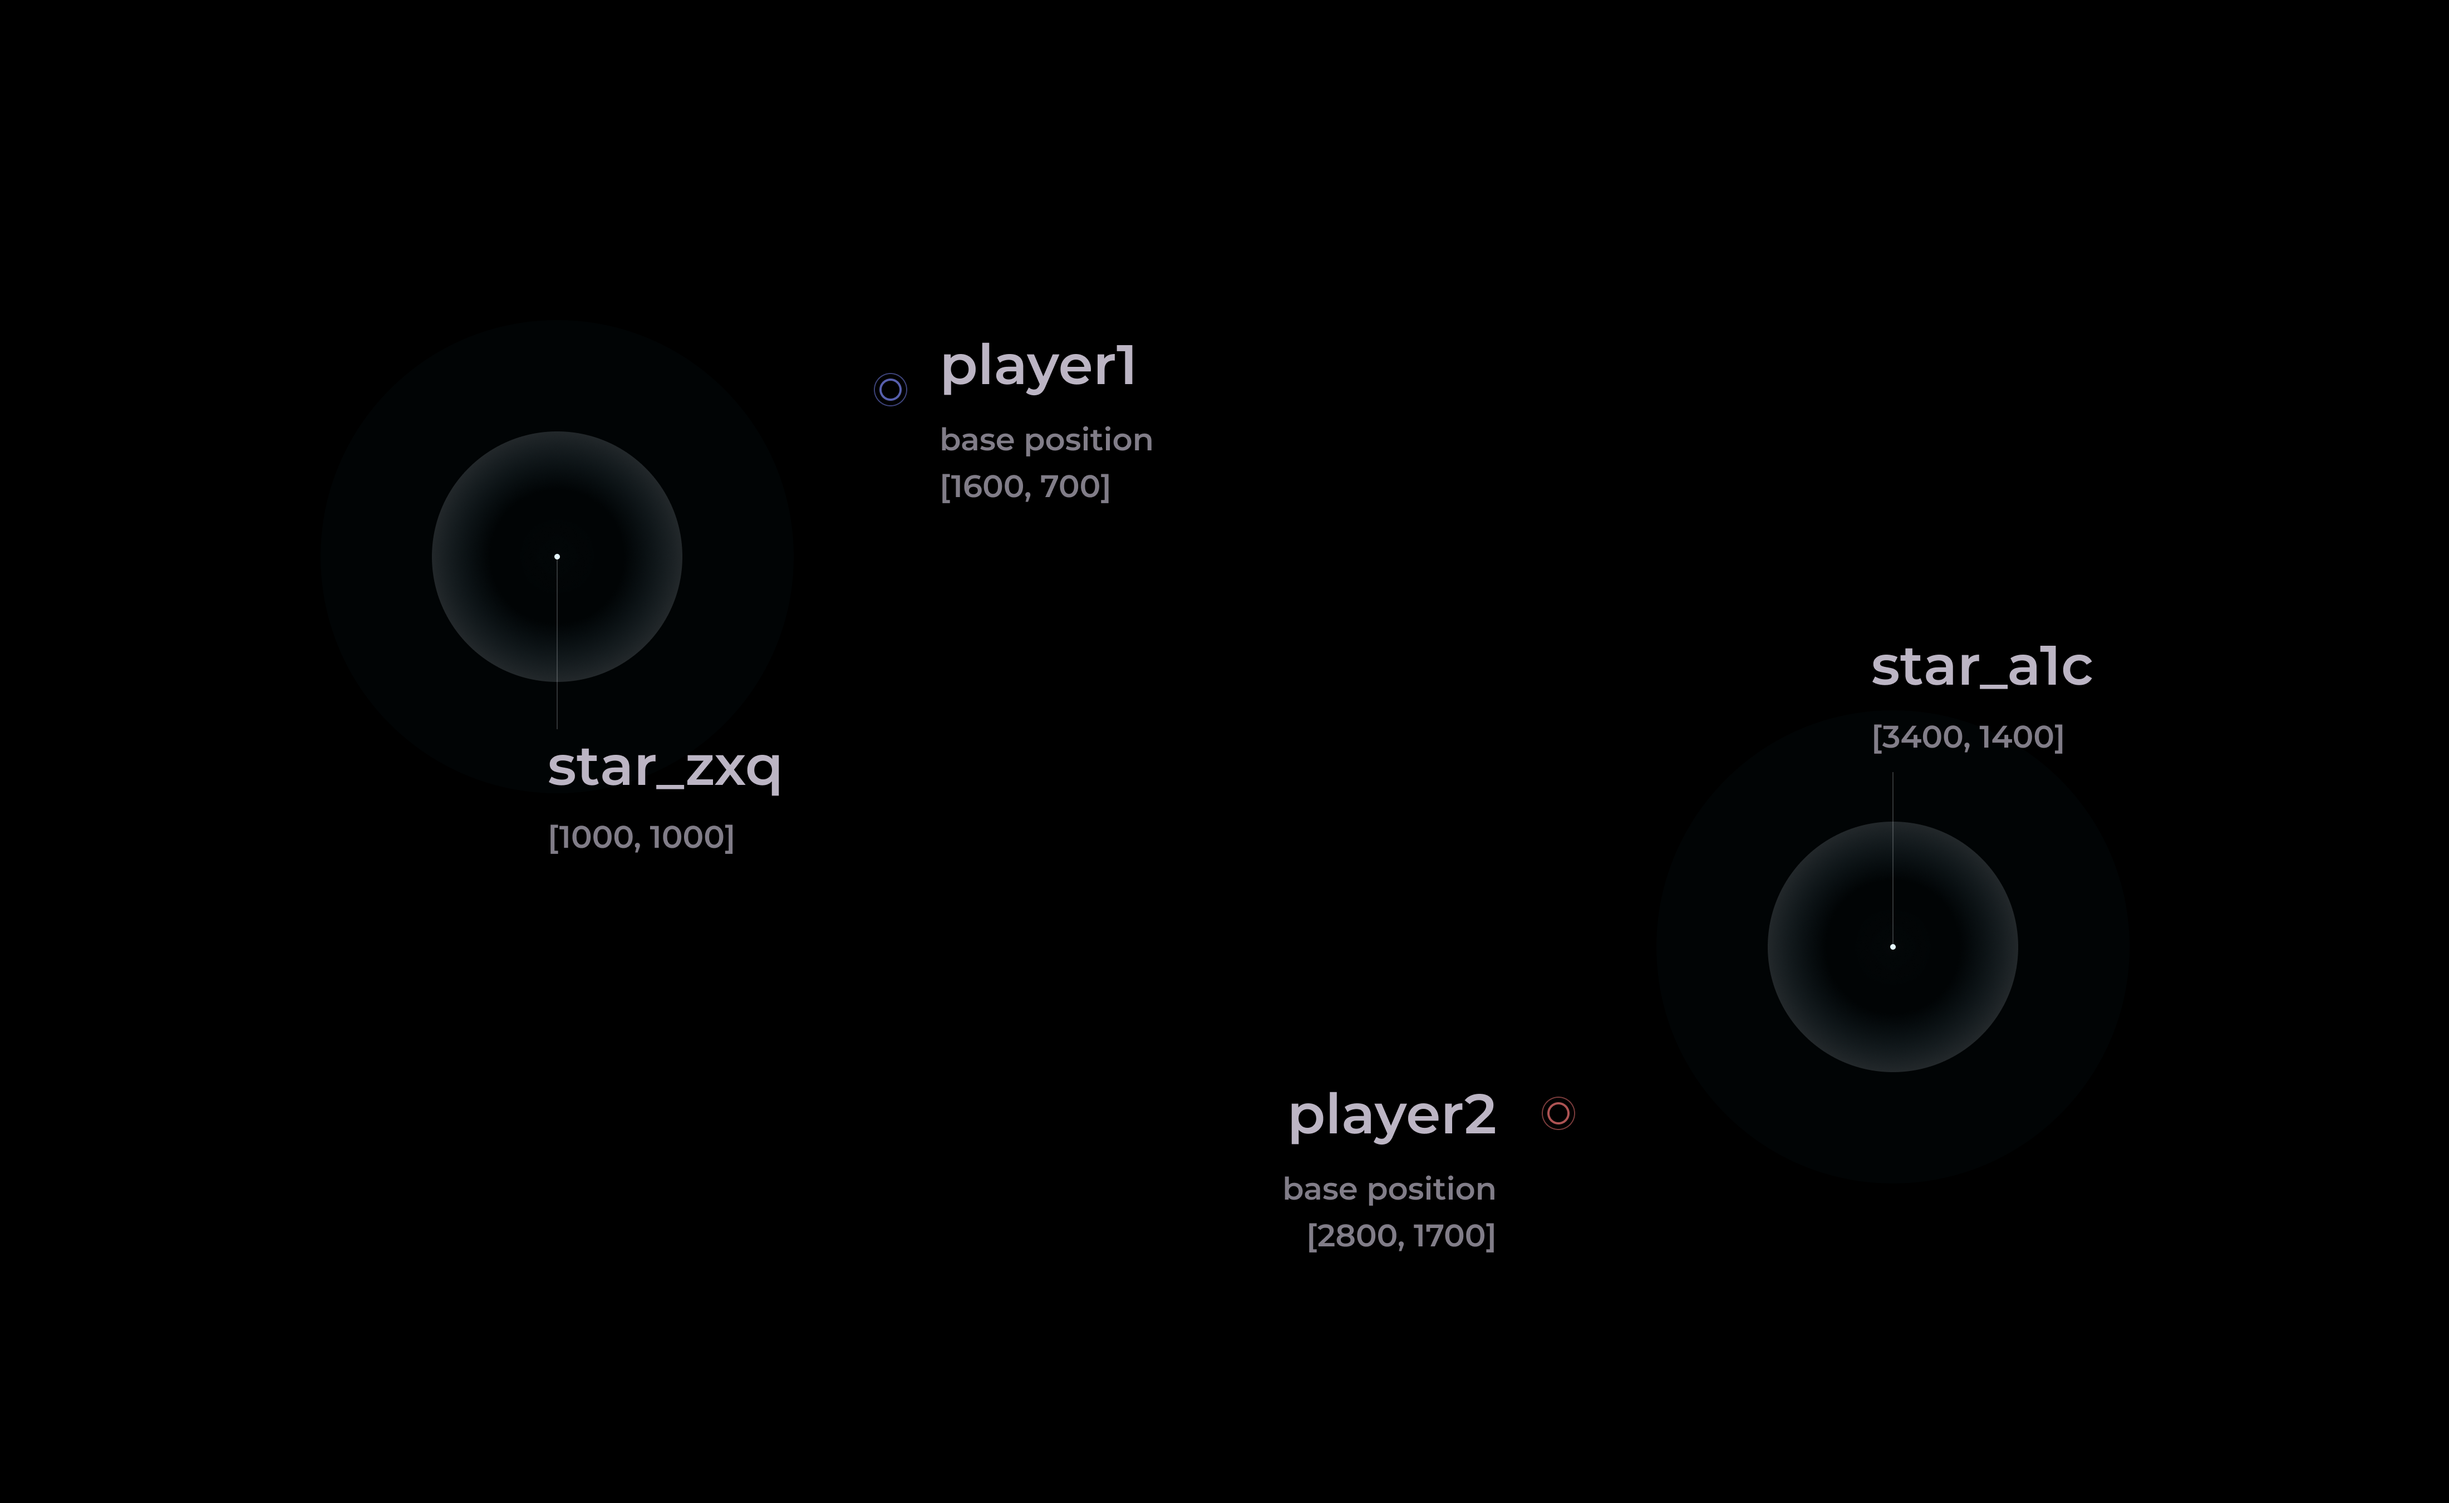
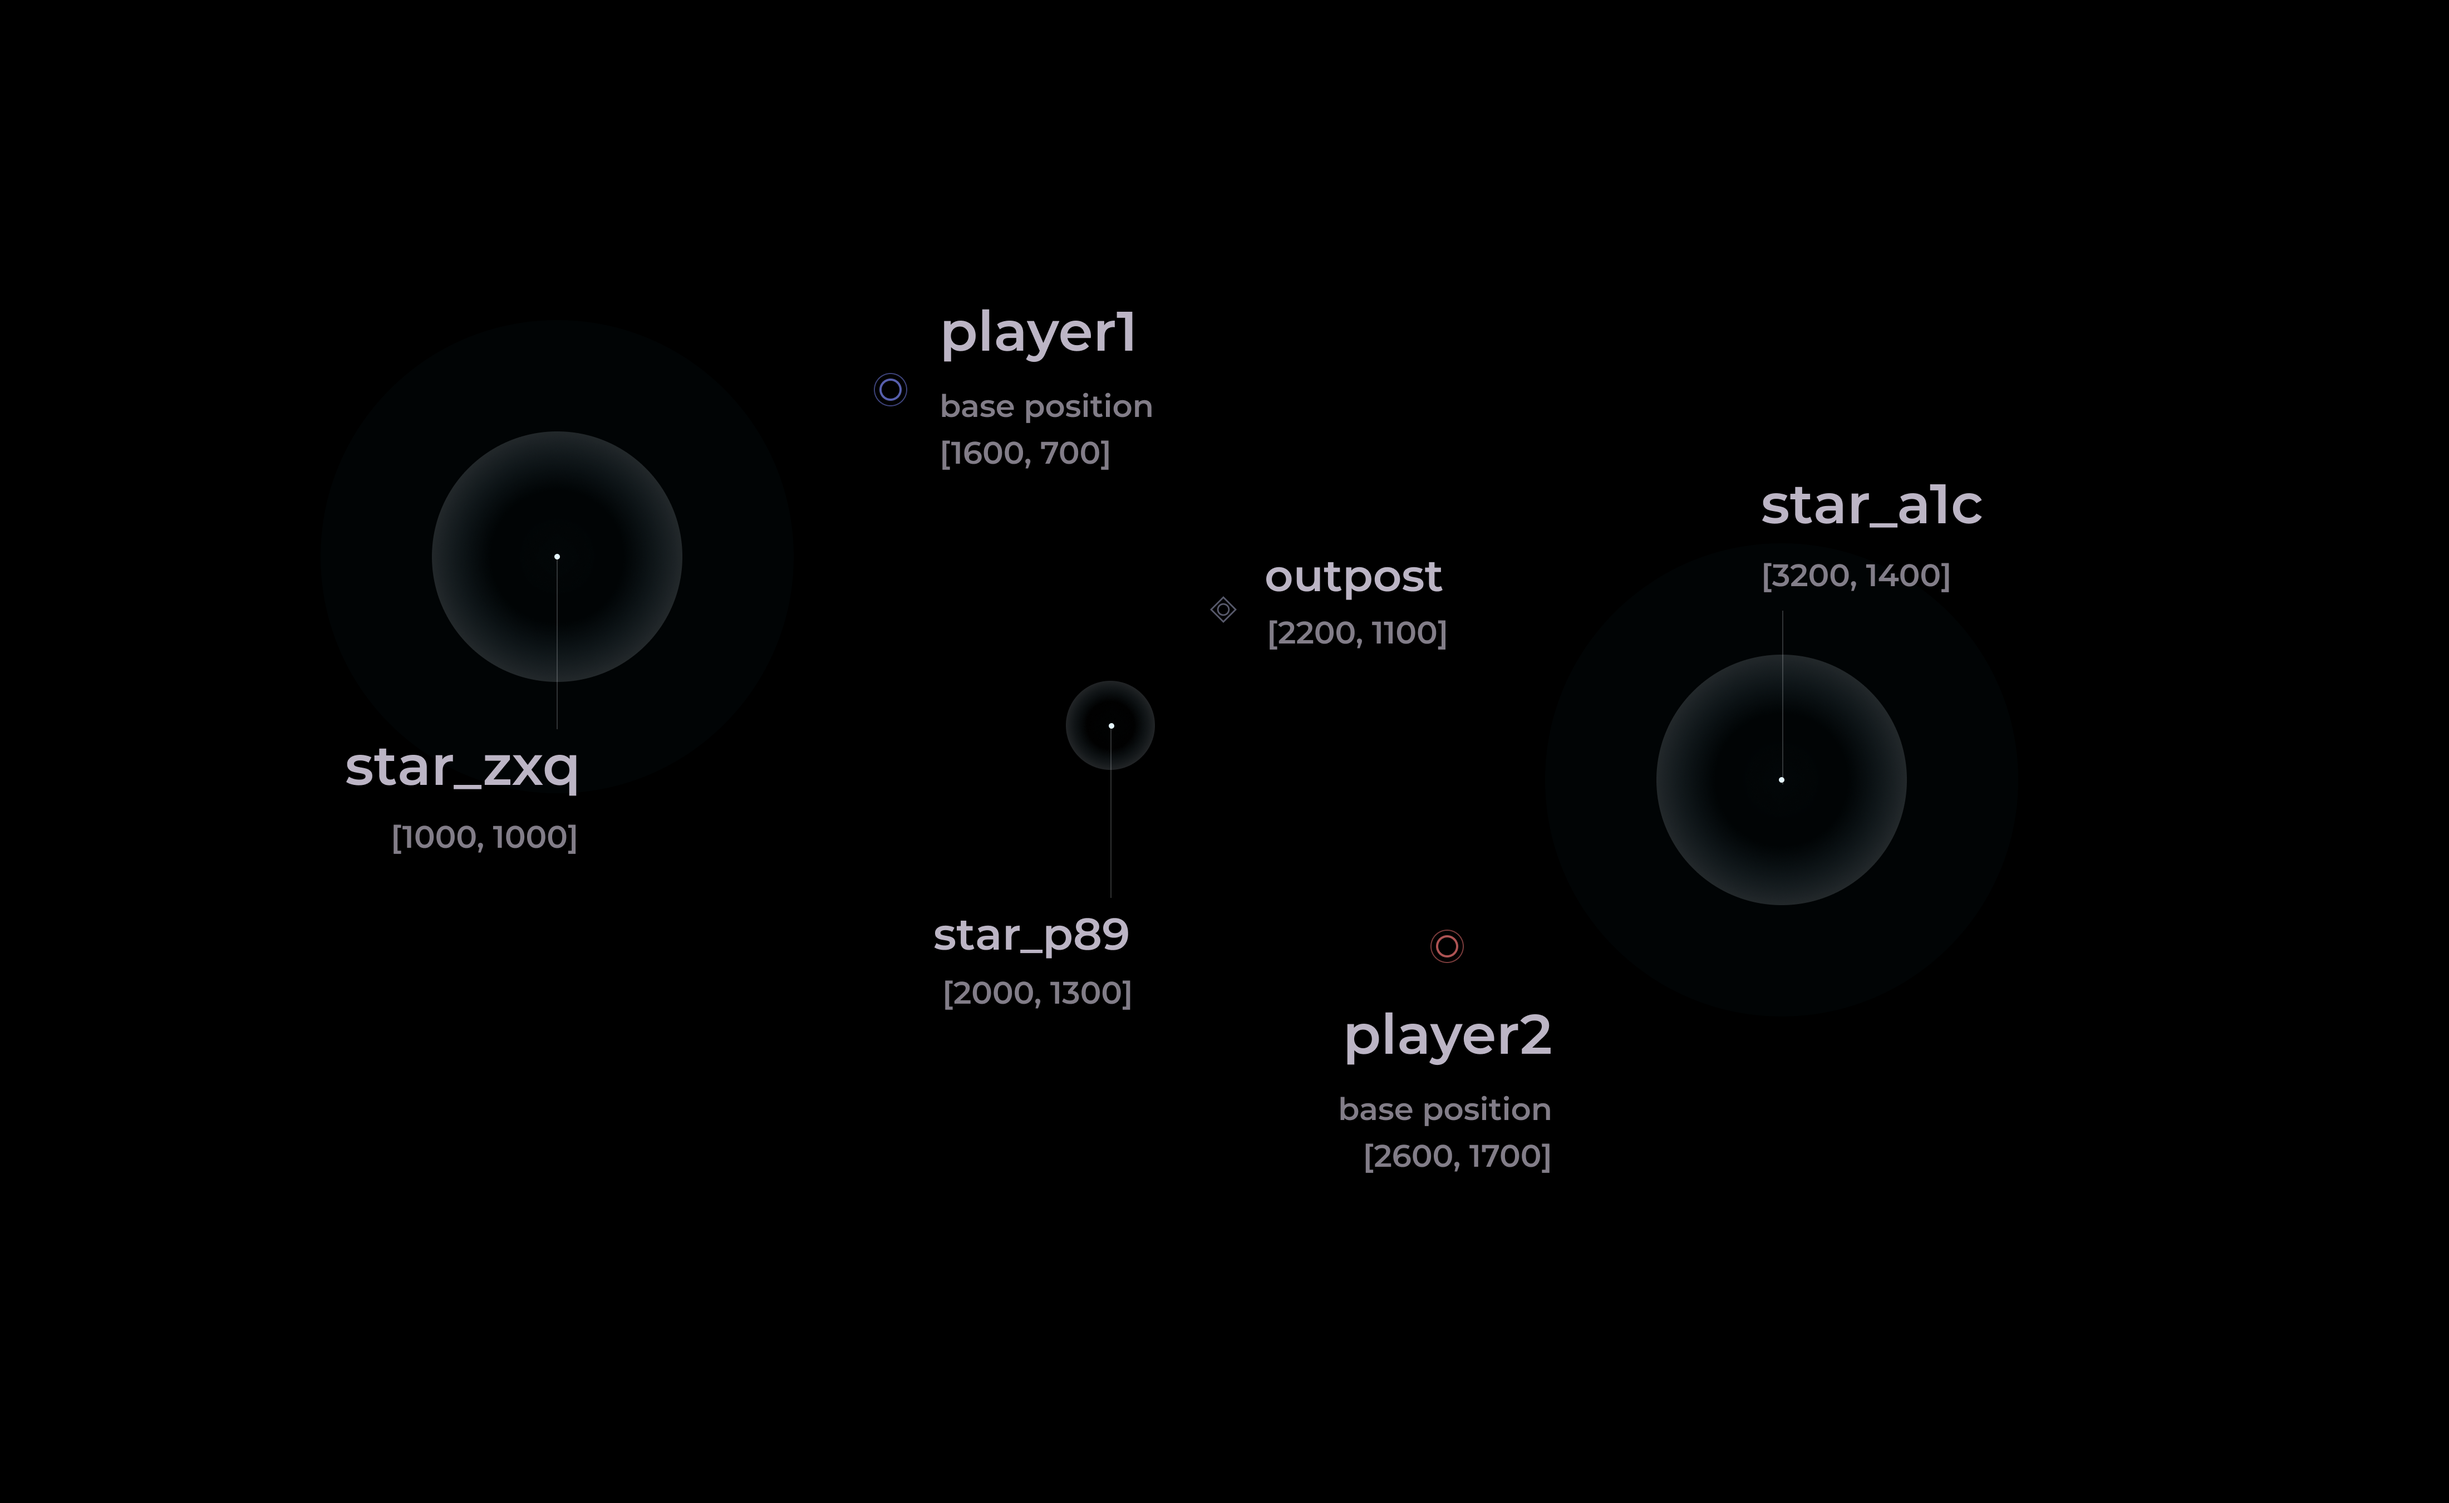
last pre-update

diff --git a/documentation.html b/documentation.html
@@ -97,6 +97,83 @@
 		  <p class="p_normal">Yare.io is played on a board sized 4400&nbsp;×&nbsp;2700 units. It’s an Euclidian plane starting [0,&nbsp;0] at the top left and [4400,&nbsp;2700] at the bottom right. Star and player base positions shown below.</p>
 		  <div class="sep_small"></div>
 		  <img src="asset/board.png" class="board_img">
+		  
+		  <div class="sep_medium"></div>
+		  <h4 class="doc_h4">Game's global variables</h4>
+		  <div class="sep_small"></div>
+		  
+		  <div class="table_doc">
+				<div class="row_in_doc_head">
+					<span class="table_doc_property">Variable</span>
+					<span class="table_doc_type">Type</span>
+					<span class="table_doc_value">Description</span>
+				</div>
+		  	<div class="row_doc">
+				<div class="row_in_doc">
+					<span class="table_doc_property">memory</span>
+					<span class="table_doc_type">object</span>
+					<span class="table_doc_value">Empty object. Use it to store values across ticks</span>
+				</div>
+			</div>
+		  	<div class="row_doc">
+				<div class="row_in_doc">
+					<span class="table_doc_property">base</span>
+					<span class="table_doc_type">object</span>
+					<span class="table_doc_value">Your base</span>
+				</div>
+			</div>
+		  	<div class="row_doc">
+				<div class="row_in_doc">
+					<span class="table_doc_property">enemy_base</span>
+					<span class="table_doc_type">object</span>
+					<span class="table_doc_value">Enemy base</span>
+				</div>
+			</div>
+		  	<div class="row_doc">
+				<div class="row_in_doc">
+					<span class="table_doc_property">star_zxq</span>
+					<span class="table_doc_type">object</span>
+					<span class="table_doc_value">Top-left corner star</span>
+				</div>
+			</div>
+		  	<div class="row_doc">
+				<div class="row_in_doc">
+					<span class="table_doc_property">star_a1c</span>
+					<span class="table_doc_type">object</span>
+					<span class="table_doc_value">Bottom-right corner star</span>
+				</div>
+			</div>
+		  	<div class="row_doc">
+				<div class="row_in_doc">
+					<span class="table_doc_property">star_p89</span>
+					<span class="table_doc_type">object</span>
+					<span class="table_doc_value">Star in the middle</span>
+				</div>
+			</div>
+		  	<div class="row_doc">
+				<div class="row_in_doc">
+					<span class="table_doc_property">outpost</span>
+					<span class="table_doc_type">object</span>
+					<span class="table_doc_value">Outpost</span>
+				</div>
+			</div>
+		  	<div class="row_doc">
+				<div class="row_in_doc">
+					<span class="table_doc_property">my_spirits</span>
+					<span class="table_doc_type">array</span>
+					<span class="table_doc_value">Contains only your spirits</span>
+				</div>
+			</div>
+		  	<div class="row_doc">
+				<div class="row_in_doc">
+					<span class="table_doc_property">spirits</span>
+					<span class="table_doc_type">object</span>
+					<span class="table_doc_value">Contains all spirits. Access them by their id – spirits[‘jane_7’]</span>
+				</div>
+			</div>
+		  	
+		  </div>
+		  
 	    </section>
 		  
 	  	<section id="doc_spirit">
@@ -191,7 +268,14 @@
 				<div class="row_in_doc">
 					<span class="table_doc_property">mark</span>
 					<span class="table_doc_type">string</span>
-					<span class="table_doc_value">Custom string you can assign to the spirit via <code>set_mark()</code> method.</span>
+					<span class="table_doc_value">Custom string assignable via <code>set_mark()</code> method.</span>
+				</div>
+			</div>
+		  	<div class="row_doc">
+				<div class="row_in_doc">
+					<span class="table_doc_property">last_energized</span>
+					<span class="table_doc_type">string</span>
+					<span class="table_doc_value">id of most recently energized object</span>
 				</div>
 			</div>
 		  	<div class="row_doc">
@@ -492,9 +576,9 @@
 					<span class="table_doc_property">energy_capacity</span>
 					<span class="table_doc_type">number</span>
 					<span class="table_doc_value">
-						<span class="g_con"><span class="ico_circle"></span> 200</span>
-						<span class="g_con"><span class="ico_square"></span> 500</span>
-						<span class="g_con"><span class="ico_triangle"></span> 500</span>
+						<span class="g_con"><span class="ico_circle"></span> 400</span>
+						<span class="g_con"><span class="ico_square"></span> 1000</span>
+						<span class="g_con"><span class="ico_triangle"></span> 600</span>
 					</span>
 				</div>
 			</div>
@@ -530,7 +614,6 @@
 		  <h2 class="h_sec_head">Outpost</h2>
 		  <p class="p_sec_intro">Neutral structure in the middle of the map that provides strategic advantage for whoever controls it by automatically shooting at enemy targets within its range.</p>
 		  
-		  <div class="sep_medium"></div>
 		  
 		  <div class="sep_medium"></div>
 		  <p class="p_somewhat_important" style="max-width: max-content;"><span class="highlight">Who controls the outpost</span></p>
@@ -624,7 +707,9 @@
 		  <h2 class="h_sec_head">Energy</h2>
 		  <p class="p_sec_intro">Energy is the only resource in the game. Spirits harvest it from the stars, use it to create new spirits, transfer energy between themselves and attack with it.</p>
 		  <div class="sep_large"></div>
-		  <p class="p_intro">Stars are the source of infinite energy. <span class="lowlight">There is no limit to how much energy you can get from them.</span></p>
+		  <p class="p_intro">Stars are the source of energy. <span class="lowlight">Every tick (1 tick = 1 second), a star generates 3 energy + 1% of its current energy (rounded to a nearest integer)</span></p>
+		  
+		  <p class="p_intro"><span class="lowlight">The star in the middle of the map – <code>star_p89</code> – starts generating energy after the 100th tick.</span></p>
 			  
 		  <div class="star_ilu">
 		  	<div class="star_large"></div>
@@ -646,7 +731,7 @@
 				<div class="row_in_doc">
 					<span class="table_doc_property">id</span>
 					<span class="table_doc_type">string</span>
-					<span class="table_doc_value">“star_zxq“ and “star_a1c” (see <a href="#gm_board">game board</a>)</span>
+					<span class="table_doc_value">“star_zxq“, “star_a1c” and "star_p89" <a href="#gm_board">game board</a></span>
 				</div>
 			</div>
 		  	<div class="row_doc">
@@ -654,6 +739,13 @@
 					<span class="table_doc_property">structure_type</span>
 					<span class="table_doc_type">string</span>
 					<span class="table_doc_value">“star“</span>
+				</div>
+			</div>
+		  	<div class="row_doc">
+				<div class="row_in_doc">
+					<span class="table_doc_property">energy</span>
+					<span class="table_doc_type">number</span>
+					<span class="table_doc_value">star's current energy</span>
 				</div>
 			</div>
 		  	<div class="row_doc">
@@ -666,6 +758,7 @@
 		  </div>
 		  
 		  <div class="sep_medium"></div>
+		  
 		  <p class="p_somewhat_important">All “movement” of energy in the game is done via the energize(<span class="lowlight">target</span>) method. See the <a href="#methods_ent">Spirit methods</a> section.</p>
 		  
 		  

diff --git a/game.js b/game.js
@@ -1395,6 +1395,7 @@ if (!isMainThread){
 	
 	
 		energize(target) {
+			target = JSON.parse(JSON.stringify(target));
 			//console.log('target = ');
 			
 			
@@ -1466,6 +1467,7 @@ if (!isMainThread){
 		}
 		
 		merge(target){
+			target = JSON.parse(JSON.stringify(target));
 			
 			if (target.id == this.id){
 				var err_msg = "You can't merge spirit into itself";
@@ -1653,6 +1655,7 @@ if (!isMainThread){
 			this.size = size;
 			this.structure_type = 'star';
 			this.energy = energy;
+			this.last_energized = '';
 			//this.energy = energy;
 		
 			stars.push(this);
@@ -1669,6 +1672,7 @@ if (!isMainThread){
 			this.structure_type = 'outpost';
 			this.energy = 0;
 			this.energy_capacity = 1000;
+			this.last_energized = '';
 			//this.energy = energy;
 			
 			this.sight = {
@@ -2334,6 +2338,8 @@ if (!isMainThread){
 			for (i = (e_targets - 1); i >= 0; i--){
 				//if (energize_queue[i][1].hp == 0) break;
 				
+				energize_queue[i][0].last_energized = energize_queue[i][1].id;
+				
 				if (energize_queue[i][1].structure_type != undefined && energize_queue[i][1].structure_type == 'outpost'){
 					//console.log('ENERGIZING OUTPOST');
 					if (energize_queue[i][0].energy > energy_value * energize_queue[i][0].size){
@@ -2905,7 +2911,7 @@ if (!isMainThread){
 			// stars energy update
 			
 			for (i = 0; i < stars.length; i++){
-				stars[i].energy += Math.round(2 + (stars[i].energy * 0.01));
+				stars[i].energy += Math.round(3 + (stars[i].energy * 0.01));
 				if (stars[i].energy >= 1000) stars[i].energy = 1000;
 				console.log('star ' + i + ' energy = ' + stars[i].energy);
 				if (game_duration < 100){
